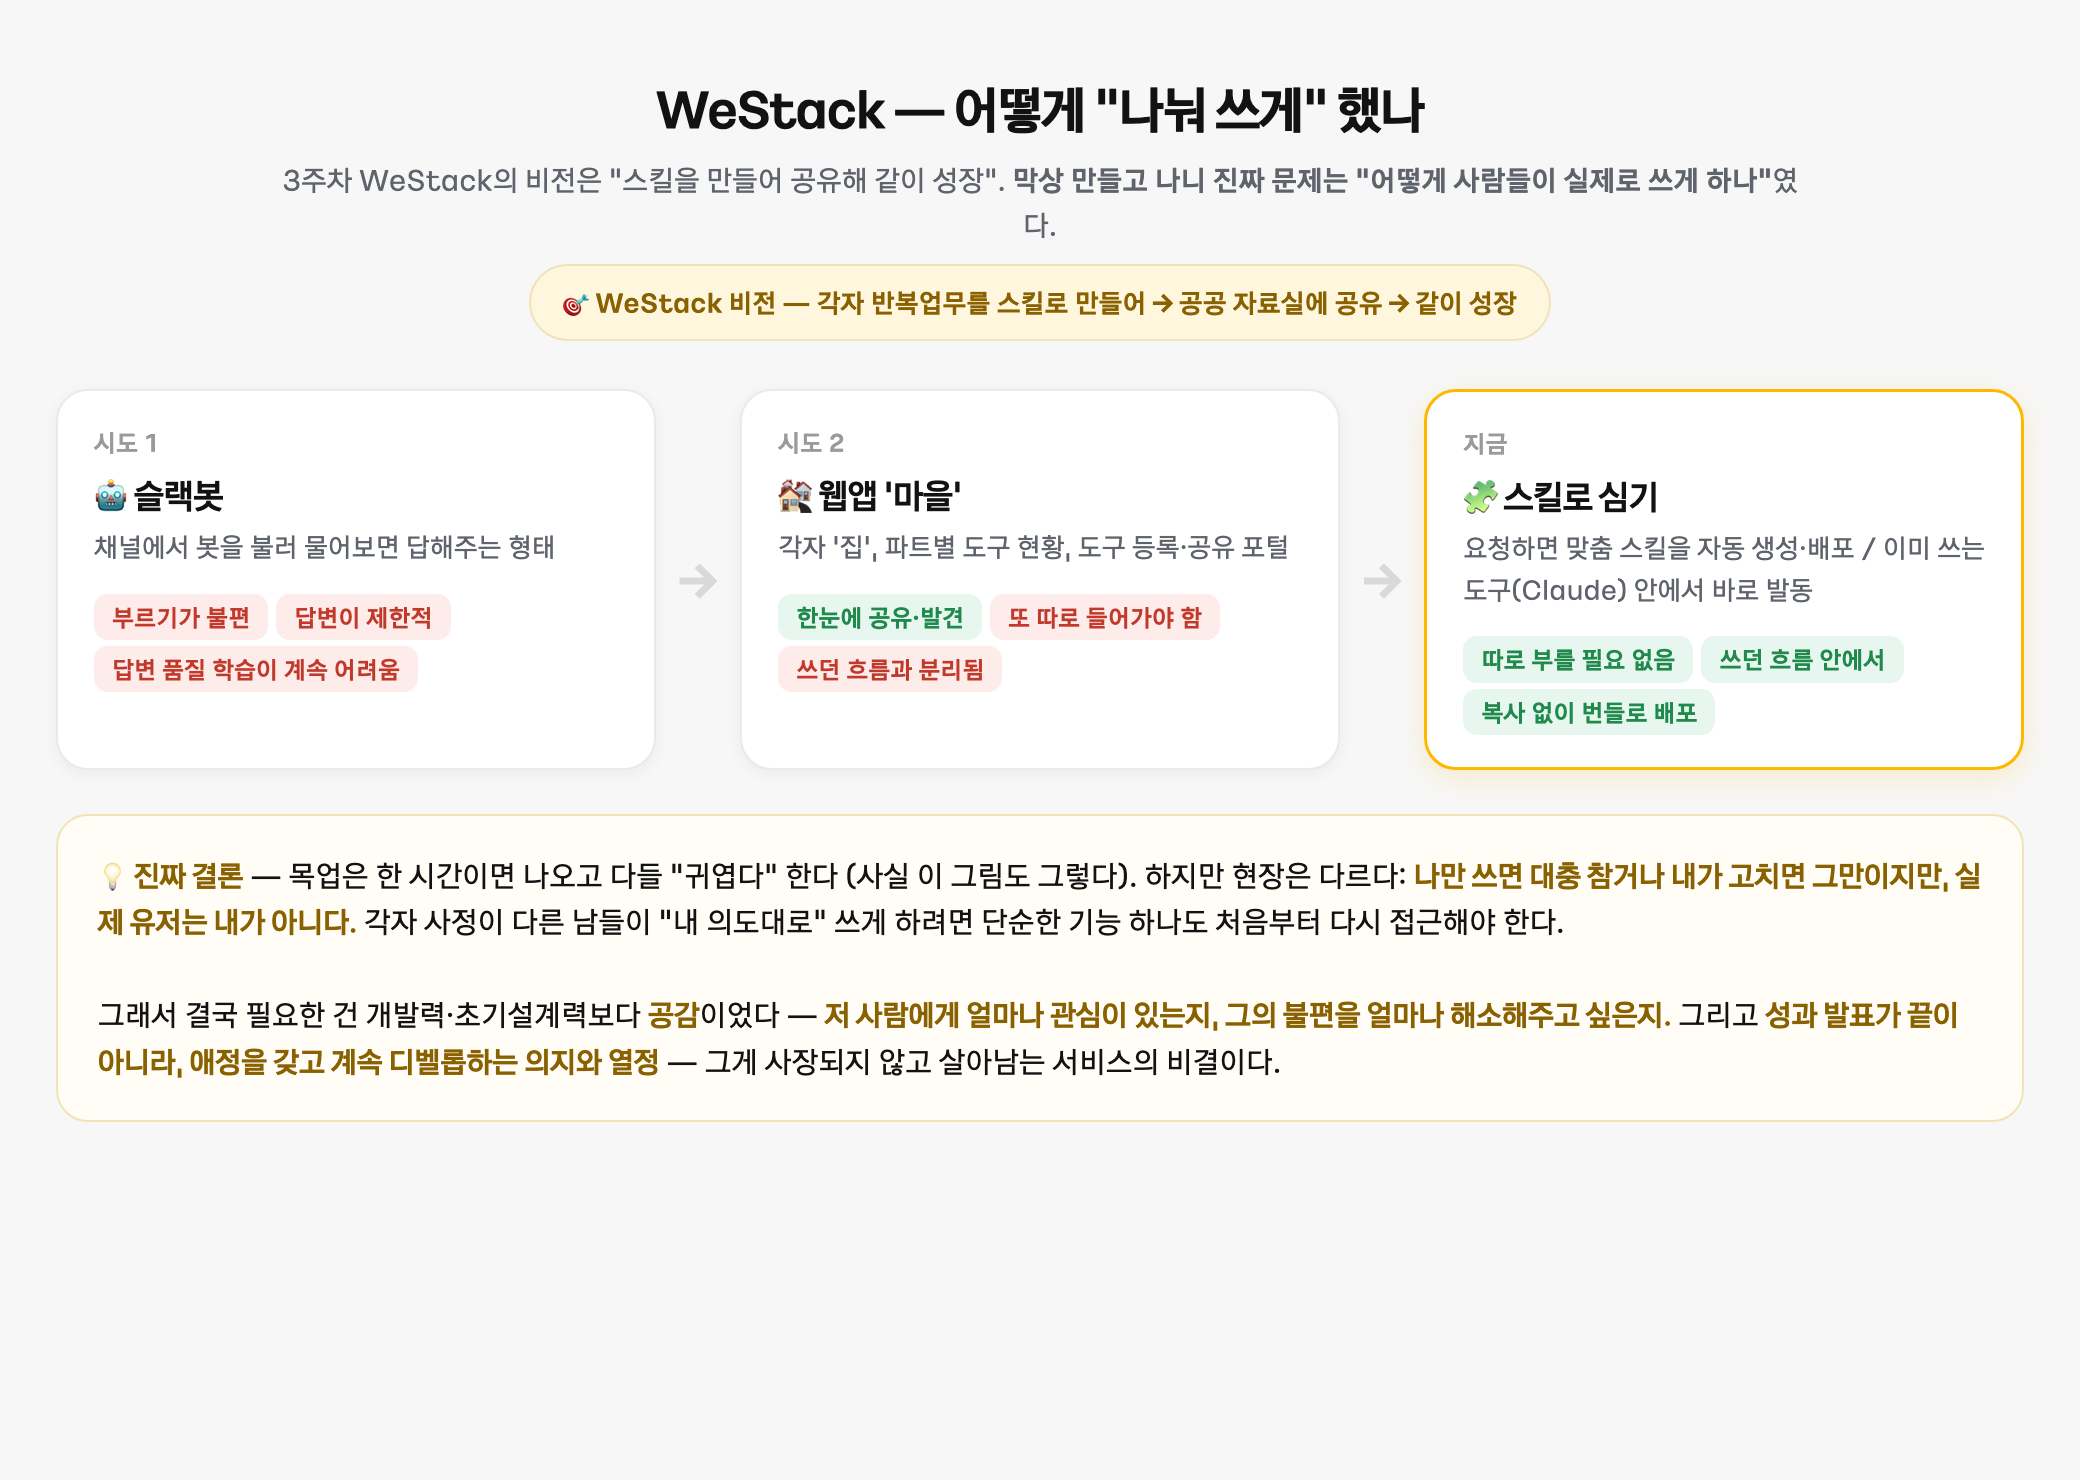
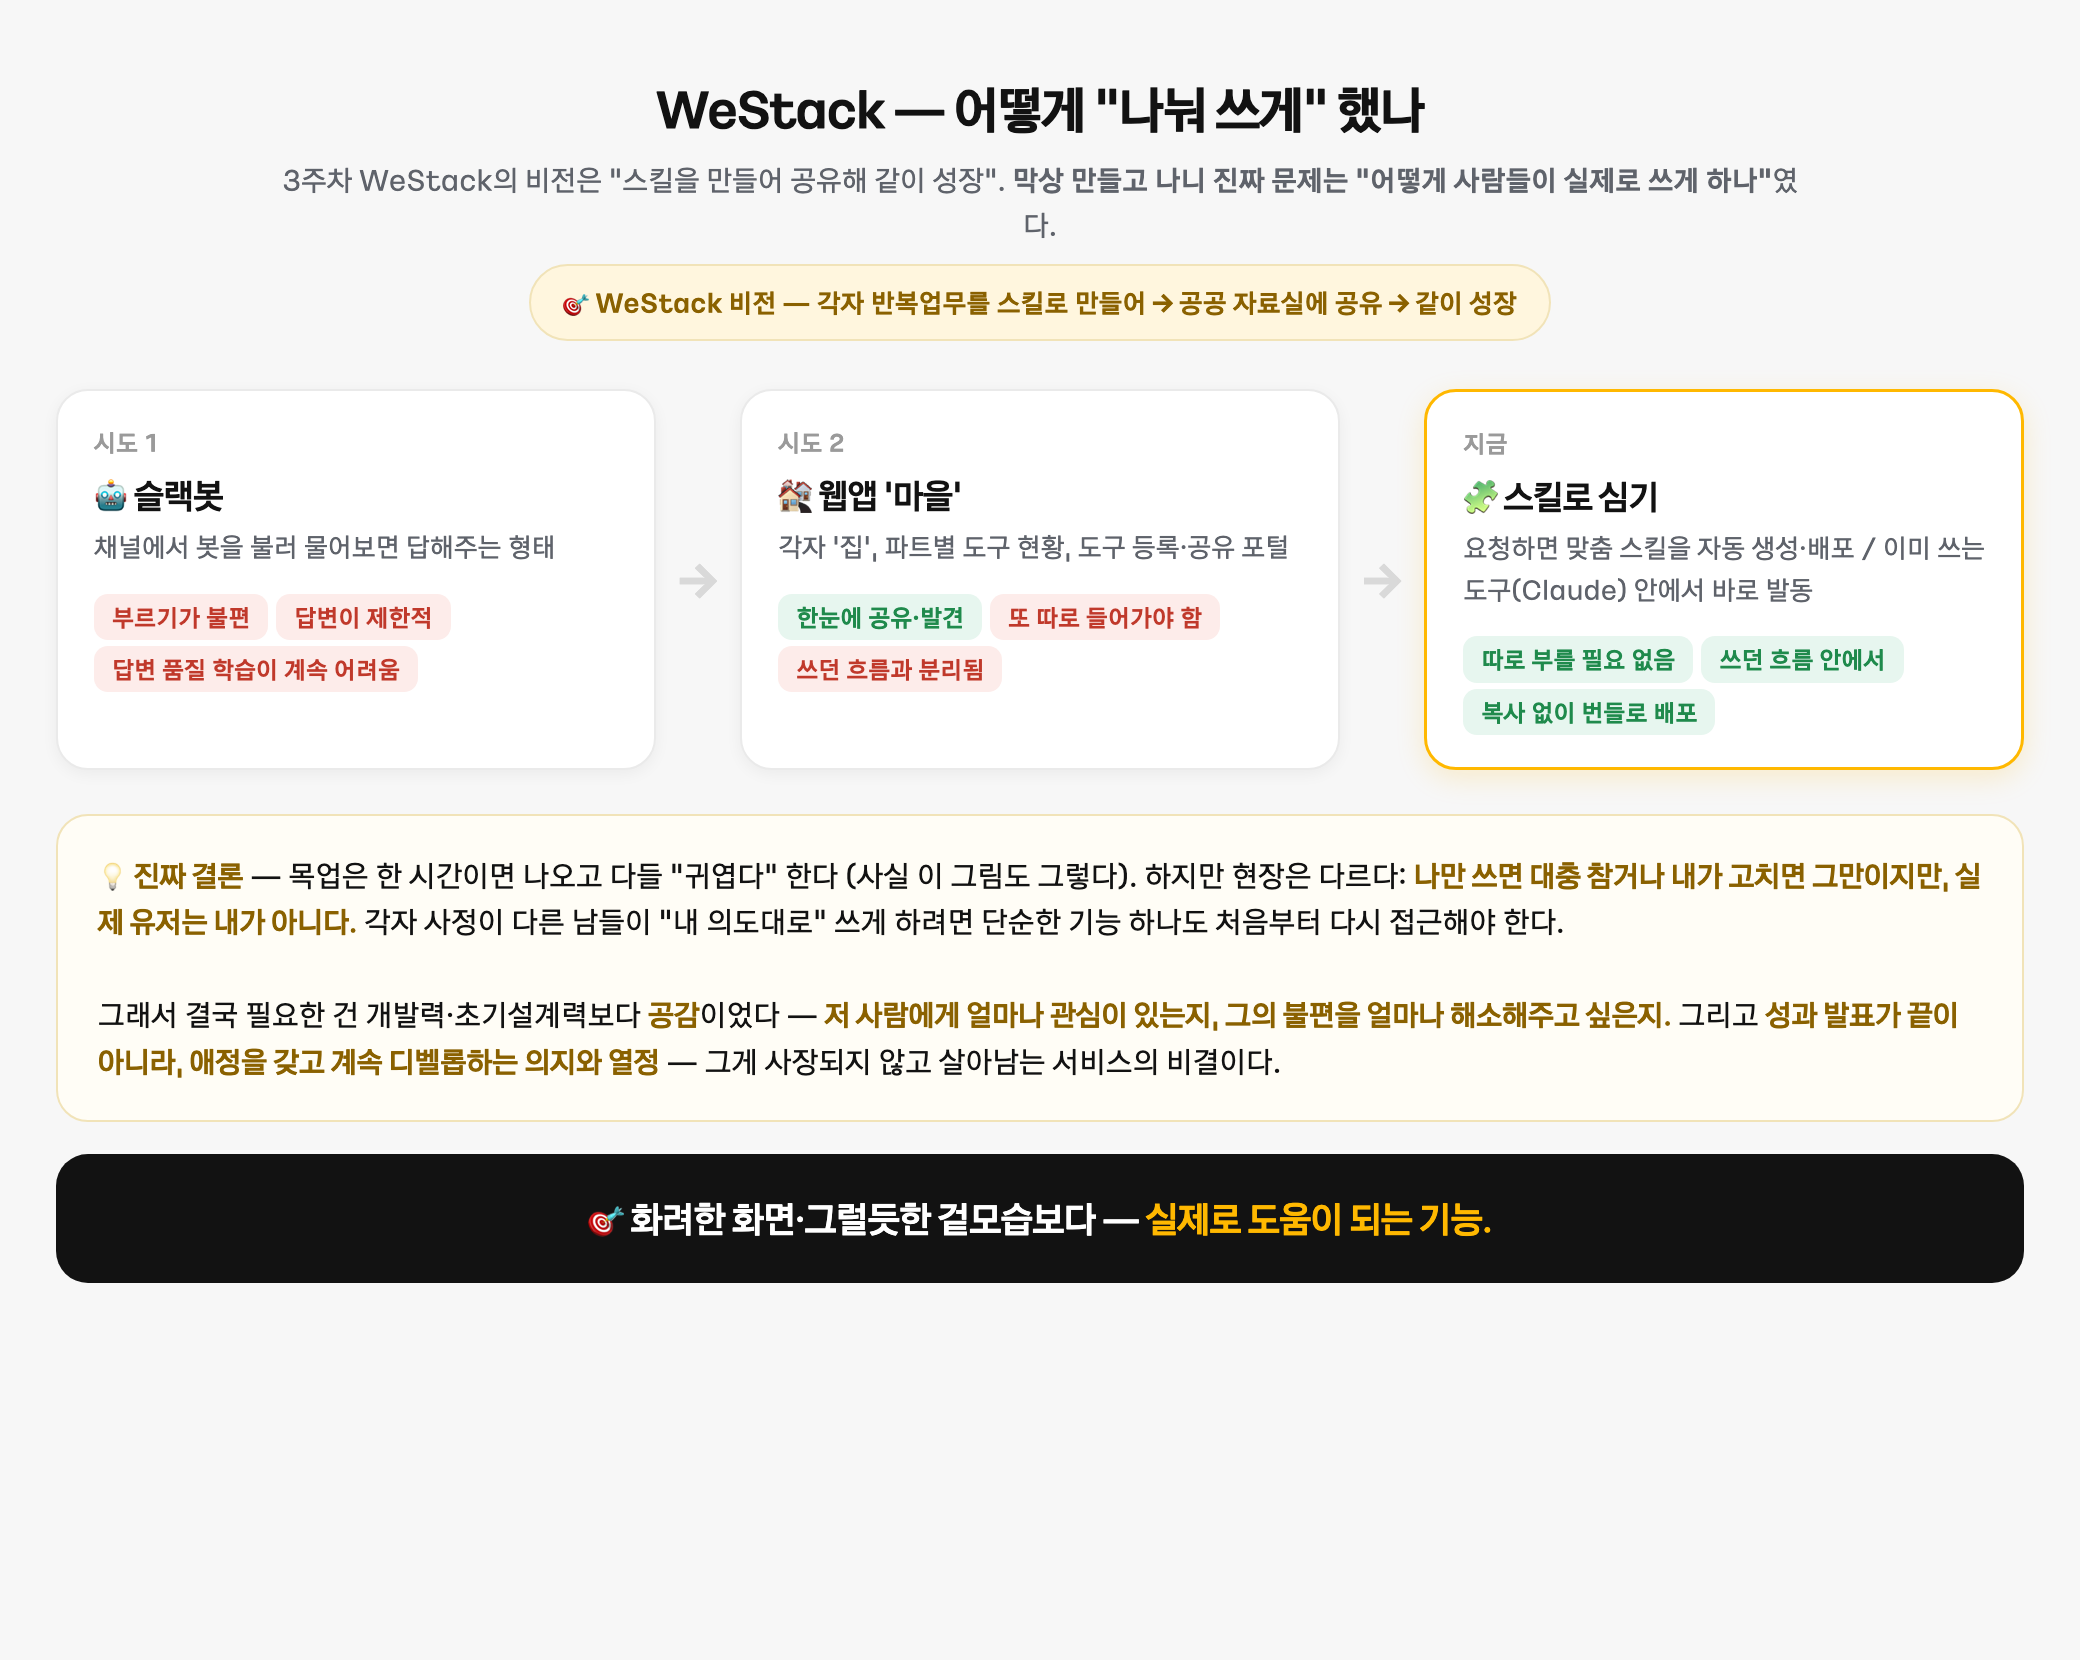
엘리스(김소영) 5주차 보강 — 최종 메시지 + WeStack 라이브 데모 URL

Changed region(s): [[0.0, 0.0311, 1.0, 0.777], [0.0312, 0.2797, 0.2812, 0.4662], [0.3125, 0.3419, 0.3438, 0.4041]]

diff --git a/1_mission/6조/엘리스(김소영)/5주차 과제 제출 폴더/submission.md b/1_mission/6조/엘리스(김소영)/5주차 과제 제출 폴더/submission.md
@@ -36,7 +36,7 @@ date: 2026-08-02
 
 > 시작할 때 "이번엔 이건 꼭 만들겠다" 했던 것 — 지금 어디까지 왔나요? (스폰지클럽 내 유저피드백 모집 가능)
 - **최종 완성한 것 (지금 어디까지):** WeStack의 비전이 **실제 스킬(CoachQ 등)로 구현**됐고, 그걸 나눠 쓰는 형태가 **슬랙봇 → 웹앱 → Claude 스킬 번들**로 수렴했다. "만들어 공유해 같이 성장"이 실제 파이프라인(요청 → 맞춤 스킬 자동 생성 → 배포)으로 굴러가는 중.
-- **🚀 실제 배포 URL:** URL이 아니라 **Claude 스킬 번들 형태로 배포**(사내). 별도 사이트 방문 없이 쓰던 도구 안에서 발동되는 게 핵심이라, 공개 URL은 없다.
+- **🚀 실제 배포 URL:** **[▶ WeStack 사무실 라이브 데모](https://htmlpreview.github.io/?https://github.com/selfishclub/spongeclub-2/blob/main/1_mission/6%EC%A1%B0/%EC%97%98%EB%A6%AC%EC%8A%A4%28%EA%B9%80%EC%86%8C%EC%98%81%29/3%EC%A3%BC%EC%B0%A8%20%EA%B3%BC%EC%A0%9C%20%EC%A0%9C%EC%B6%9C%20%ED%8F%B4%EB%8D%94/office.html)** — 3주차 WeStack 컨셉이 실제로 돌아가는 화면(발표용 제네릭 버전, 회사 내용 0%). *실제 사내 시스템(CoachQ 등)은 보안상 비공개이고, 배포 형태도 URL이 아니라 Claude 스킬 번들이에요.*
 - **결과물 (링크·스크린샷 — 이미지는 `이미지첨부/` 폴더에):**
 
   ![CoachQ — 현장이 키운 시스템 (4주차 결과물)](이미지첨부/coachq-피드백루프.png)
@@ -55,3 +55,9 @@ date: 2026-08-02
 - **구현했던 것들 (무엇을 / 어떻게 굴러가는지 / 뭐가 달라졌는지):** WeStack("스킬 만들어 공유해 같이 성장")을 실제로 굴렸다. 스킬(CoachQ 등)을 만들고, 그걸 나눠 쓰는 형태를 슬랙봇→웹앱→스킬 번들로 실험했다. 그런데 진짜 배운 건 형태가 아니다 — **목업·포장은 한 시간이면 나오고 다들 "귀엽다" 하지만, 현장은 다르다. 나만 쓰면 대충 참으면 되는데 실제 유저는 내가 아니라서, 각자 사정 다른 남들이 '내 의도대로' 쓰게 하려면 단순한 기능 하나도 처음부터 다시 접근해야 한다.**
 - **다음 단계 생각 (뭘 더 하고 싶은지 / 남은 것 / 어디로):** 결국 필요한 건 개발력·초기설계력보다 **공감**이었다 — 저 사람에게 얼마나 관심이 있는지, 그의 불편을 얼마나 해소해주고 싶은지. 그리고 **성과 발표가 끝이 아니라, 애정을 갖고 계속 디벨롭하는 의지와 열정** — 그게 사장되지 않고 살아남는 서비스의 비결이라고 생각한다. 남은 일도 그 연장선: ① 스킬 답변 품질을 사람이 매번 학습시키지 않고 근거로 담보 ② 요청→맞춤 스킬 자동 생성·배포 파이프라인 안정화 ③ "실제로 쓰였는지"를 지표로.
 - **SNS 인증 링크:** (게시 후 붙이기)
+
+---
+
+> ### 🎯 내가 얻은 해답
+> **화려한 화면, 그럴듯하게 보여지는 것보다 — 실제로 도움이 되는 기능.**
+> 그게 전부였다.
